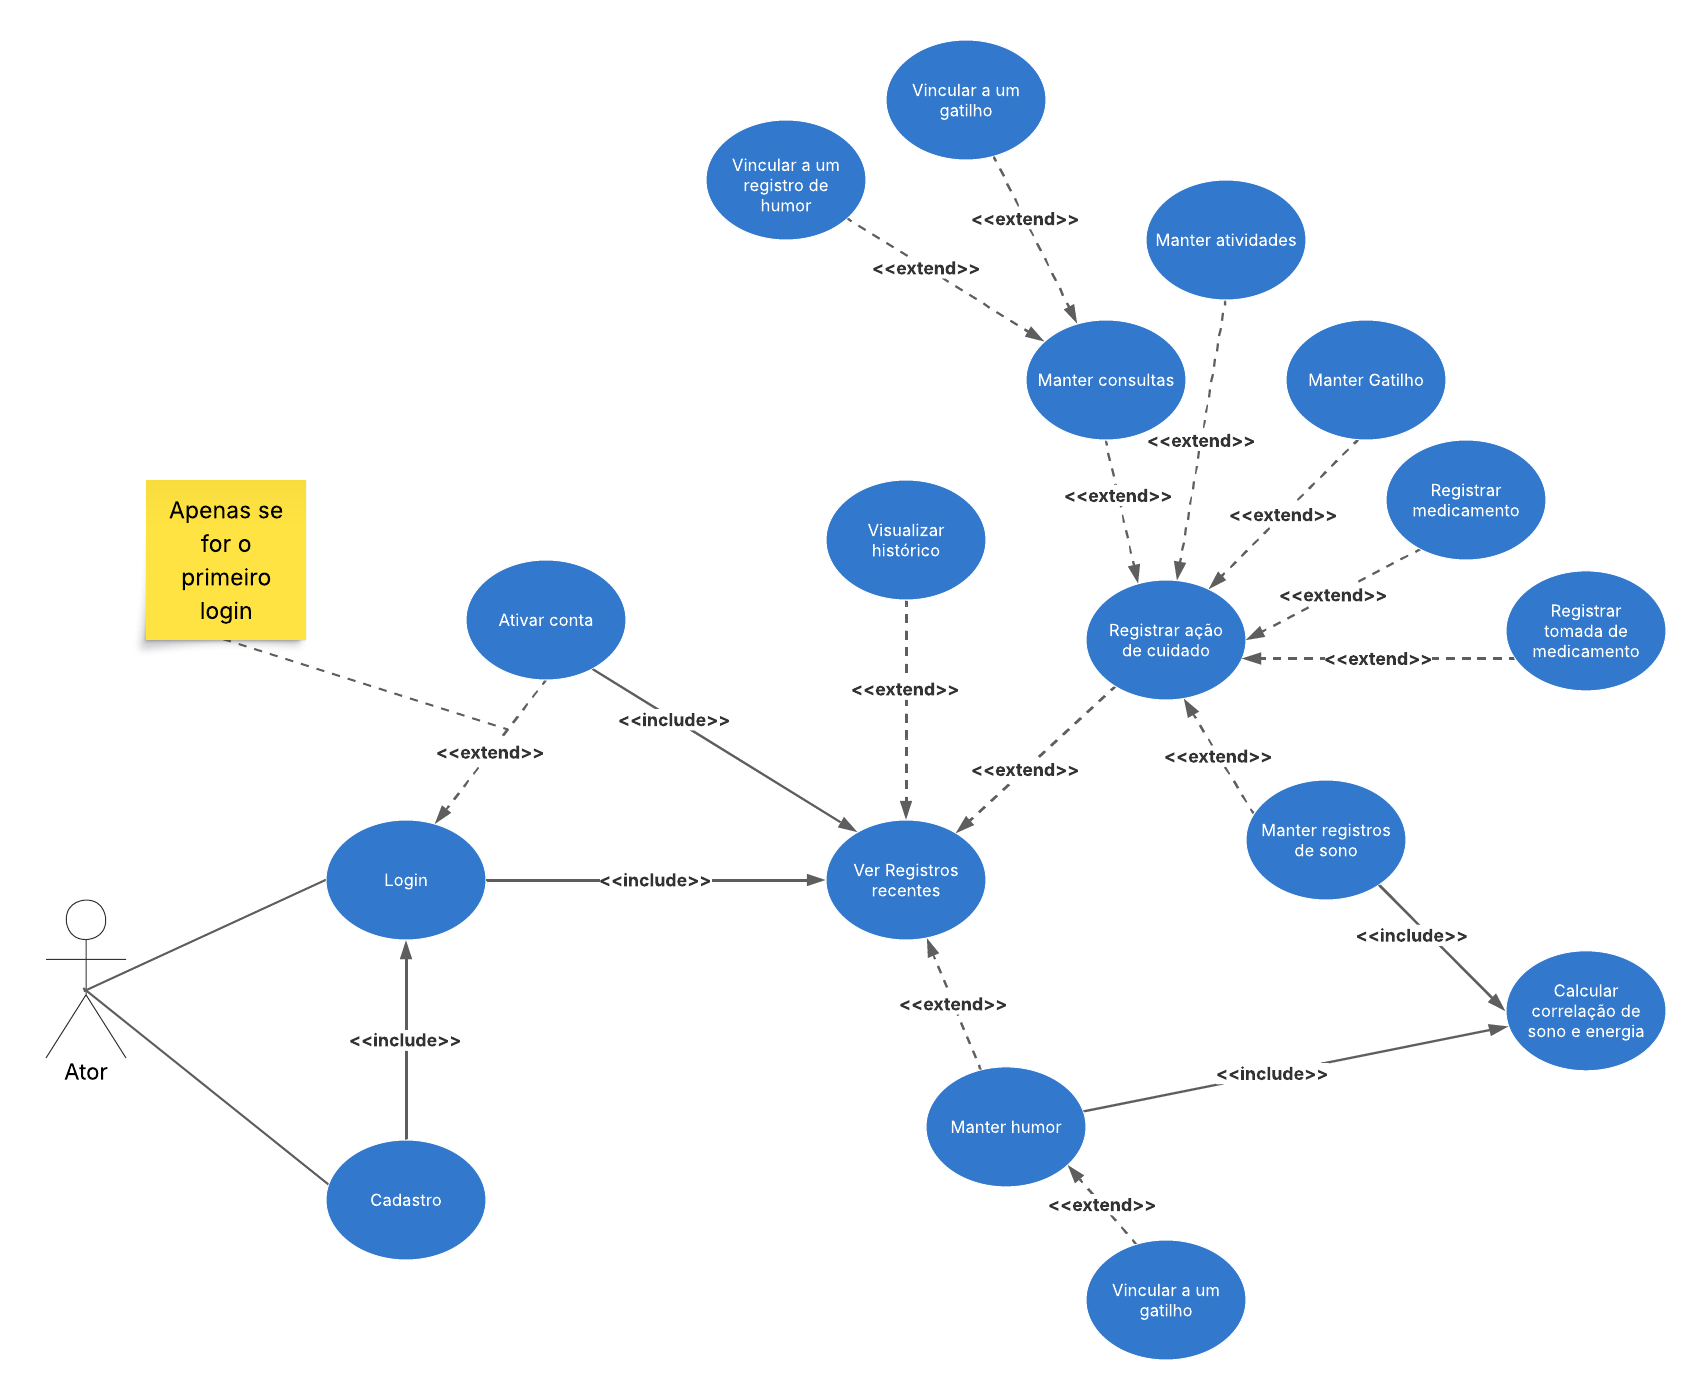
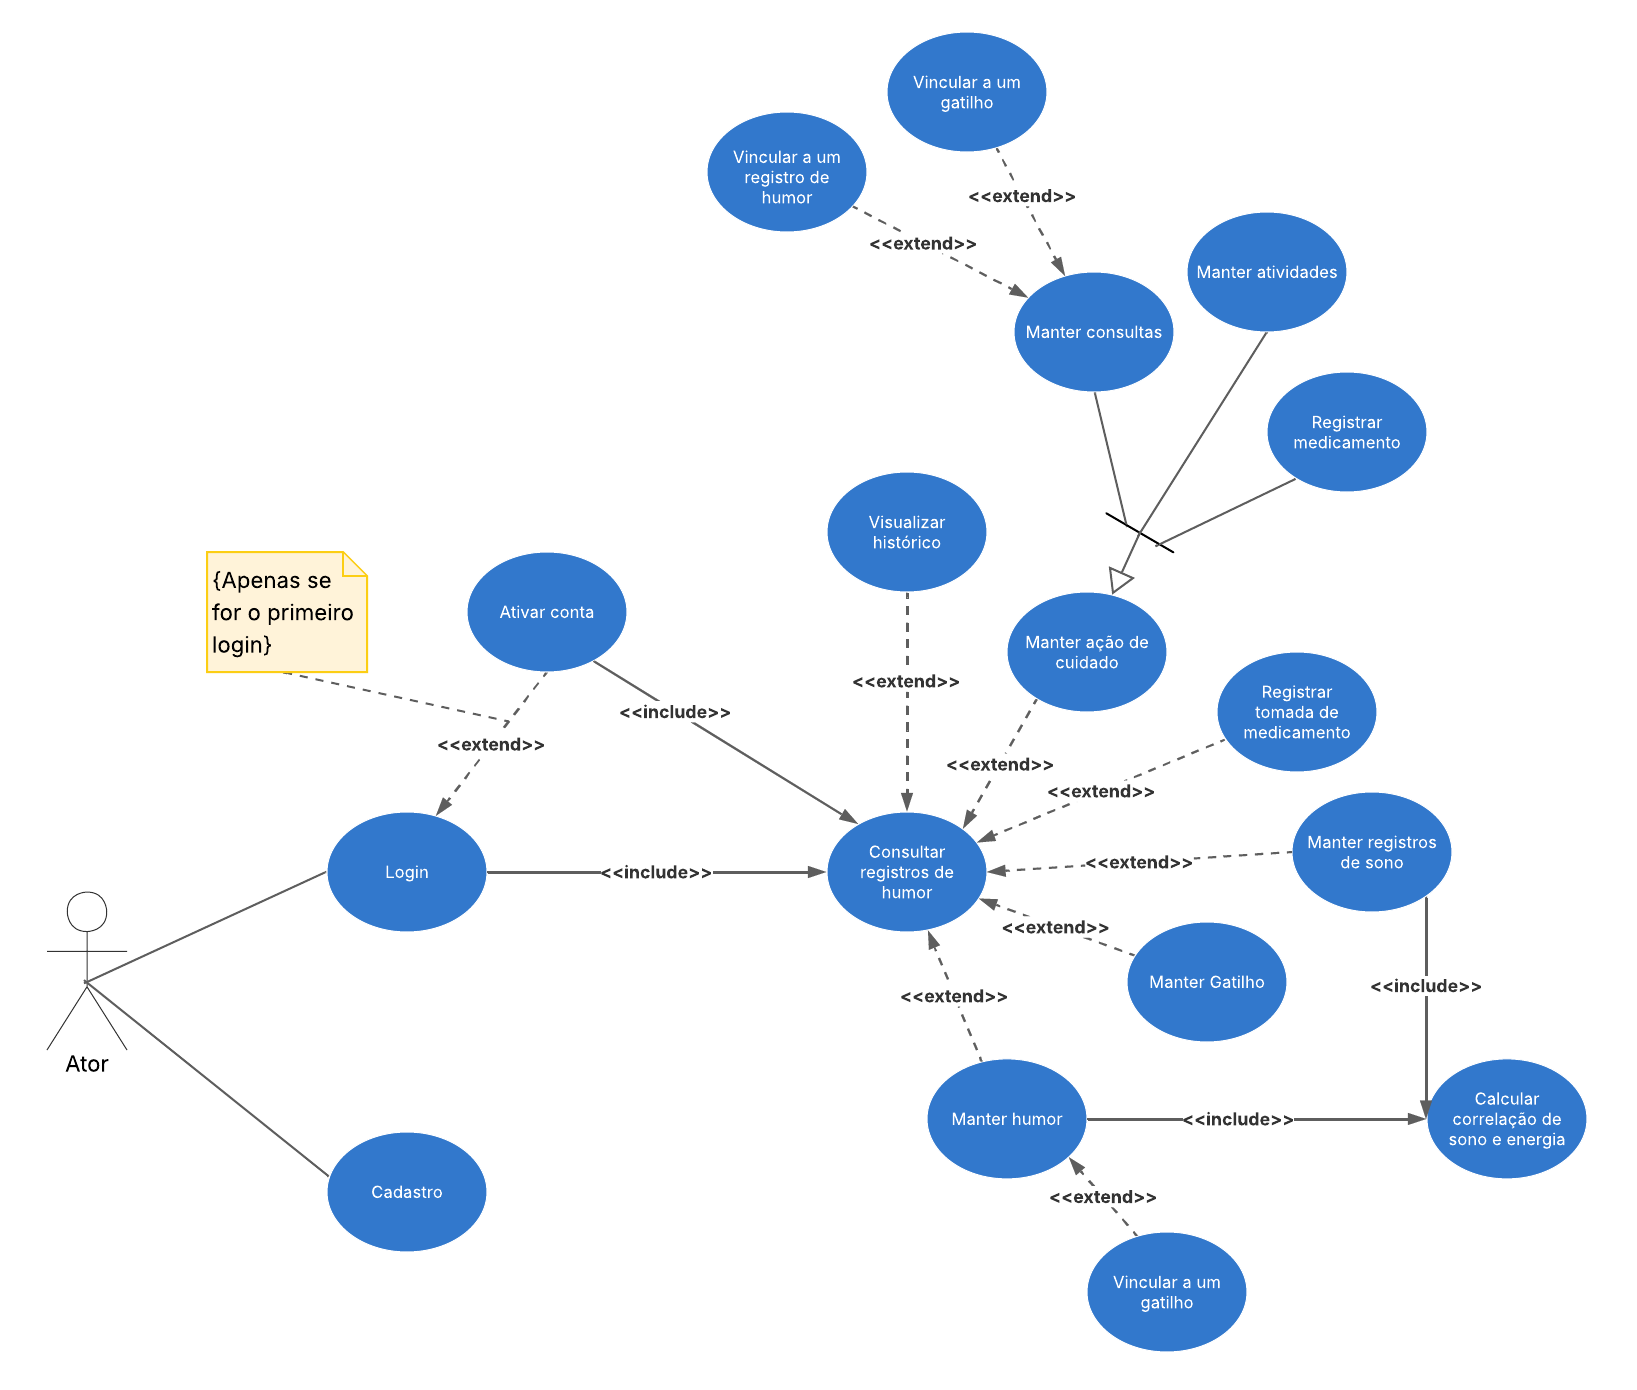
thesis: update methodologies to add screenshots and rework text

diff --git a/monografia/chapters/methodologies.tex b/monografia/chapters/methodologies.tex
@@ -220,6 +220,14 @@ emocional é realizado principalmente por meio de uma pontuação de humor, sem
 identificar ciclos emocionais ou relacionar registros a gatilhos e intervenções
 específicas.
 
+\begin{figure}[!htbp]
+\centering
+\caption{Aplicativo Baseline}
+\label{fig:screenshot-baseline}
+\includegraphics[width=0.40\textwidth,height=0.40\textheight,keepaspectratio]{screenshot-baseline.jpeg}
+\source{O autor}
+\end{figure}
+
 \subsubsection{DailyBeans}
 
 O DailyBeans é um dos aplicativos de monitoramento de humor mais populares
@@ -239,21 +247,37 @@ parte de suas funcionalidades mais avançadas à versão paga. Além disso, o fo
 em registros rápidos reduz a flexibilidade para inserção de reflexões textuais
 mais detalhadas.
 
-\subsubsection{Moodnotes}
 
-O Moodnotes é um diário emocional baseado em princípios da Terapia
-Cognitivo-Comportamental (TCC), buscando auxiliar usuários na identificação e
-reformulação de padrões de pensamento considerados disfuncionais.
+\begin{figure}[H]
+\centering
+\caption{Aplicativo DailyBeans}
+\label{fig:screenshot-dailybeans}
+\includegraphics[width=0.40\textwidth,height=0.40\textheight,keepaspectratio]{screenshot-dailybeans.jpeg}
+\source{O autor}
+\end{figure}
 
-O aplicativo oferece registros textuais reflexivos, sugestões de reestruturação
-cognitiva, gráficos históricos e geração automática de insights relacionados
-aos padrões emocionais identificados. Sua proposta diferencia-se por incorporar
-conceitos psicológicos de maneira mais explícita ao processo de registro.
+\subsubsection{DailyMood}
 
-Apesar dos recursos disponíveis, trata-se de uma solução proprietária e
-predominantemente paga. Adicionalmente, apresenta limitações relacionadas à
-exportação dos dados registrados e à personalização das informações
-armazenadas.
+DailyMood é um aplicativo voltado ao registro cotidiano do estado emocional,
+oferecendo uma solução enxuta para acompanhamento de humor. Sua
+proposta baseia-se em uma interação mínima, permitindo que o usuário
+selecione rapidamente o sentimento predominante do dia, sem a necessidade
+de descrições extensas. Os registros são organizados em um calendário
+visual, o que facilita a leitura histórica e a identificação de padrões
+emocionais ao longo do tempo.
+
+Apesar dos recursos disponíveis, trata-se de uma solução bastante
+simples, embora não necessite de contas. Adicionalmente, apresenta
+limitações relacionadas à exportação dos dados registrados e à
+personalização das informações armazenadas.
+
+\begin{figure}[H]
+\centering
+\caption{Aplicativo DailyMood}
+\label{fig:screenshot-dailymood}
+\includegraphics[width=0.40\textwidth,height=0.55\textheight,keepaspectratio]{screenshot-dailymood.jpeg}
+\source{O autor}
+\end{figure}
 
 \subsubsection{Reflectly}
 
@@ -266,33 +290,57 @@ Entre suas funcionalidades estão entradas textuais livres, perguntas guiadas
 diárias, análises emocionais automatizadas e personalização visual da
 interface. O sistema apresenta uma experiência moderna e intuitiva,
 incentivando o uso contínuo por meio de elementos de engajamento.
+Um ponto interessante é o fato do aplicativo separar o ``humor'' dos
+``sentimentos'', permitindo que os usuários avaliem ambos de forma
+independente.
 
 Como pontos observados, destaca-se o fato de ser uma solução proprietária e
 dependente de coleta significativa de dados para alimentar seus mecanismos de
-análise. Além disso, sua abordagem está mais voltada ao diário pessoal do que
+análise. Outro ponto negativo é o fato de que o aplicativo apresenta
+elementos como estatísticas e histórico, porém necessita de uma conta
+paga para acessar esses recursos.
+
+Além disso, sua abordagem está mais voltada ao diário pessoal do que
 ao acompanhamento sistemático de indicadores de saúde mental.
 
-\subsubsection{T2 Mood Tracker}
+\begin{figure}[H]
+\centering
+\caption{Aplicativo Reflectly}
+\label{fig:screenshot-reflectly}
+\includegraphics[width=0.40\textwidth,height=0.55\textheight,keepaspectratio]{screenshot-reflectly.jpeg}
+\source{O autor}
+\end{figure}
 
-O T2 Mood Tracker foi desenvolvido com foco em contextos clínicos e
-acompanhamento estruturado do humor. A ferramenta permite que usuários
-monitorem diferentes aspectos emocionais por meio de escalas configuráveis.
+\subsubsection{eMoods}
 
-Entre os recursos oferecidos estão escalas deslizantes de avaliação, criação de
-categorias personalizadas e geração de gráficos históricos para análise
-temporal dos registros. Sua proposta é particularmente útil para profissionais
-e pacientes que necessitam acompanhar indicadores específicos ao longo do
-tempo.
+O \textit{eMoods} é um aplicativo de registro de humor especificamente para
+pessoas com TAB. O aplicativo tem uma interface bem compacta, bastante
+poluída visualmente, em estilo formulário de entrada de dados.
+
+O aplicativo consegue registrar dados de sono, além de perguntas como
+ansiedade, estado depressivo, e outras coisas como ``você praticou higiene
+pessoal?'', ``você tomou medicamentos?'', ``você se alimentou bem?'' e afins.
+Um ponto positivo é que o aplicativo também permite exportar os dados em
+formato CSV e gerar relatórios em formato PDF.
 
 Entretanto, a aplicação apresenta limitações relacionadas à experiência do
 usuário, possuindo interface considerada desatualizada quando comparada a
 soluções contemporâneas. Também não oferece suporte para registros textuais
-extensos ou entradas por voz, reduzindo a riqueza contextual das informações
-coletadas.
+extensos ou entradas por voz, além de ser muito confuso de usar.
+
+\begin{figure}[H]
+\centering
+\caption{Aplicativo eMoods}
+\label{fig:screenshot-emoods}
+\includegraphics[width=0.40\textwidth,height=0.55\textheight,keepaspectratio]{screenshot-emoods.jpeg}
+\source{O autor}
+\end{figure}
+
+\FloatBarrier
 
 \subsection{Análise comparativa}
 
-\begin{table}[h]
+\begin{table}[H]
     \centering
     \caption{Comparativo de funcionalidades entre aplicativos analisados}
     \label{tab:comparativo_apps}
@@ -300,15 +348,15 @@ coletadas.
         \hline
         Funcionalidade &
         Baseline &
-        Daylio &
-        Moodnotes &
+        DailyBeans &
+        DailyMood &
         Reflectly &
-        T2 \\
+        eMoods \\
 
         \hline
         Registro de humor & Sim & Sim & Sim & Sim & Sim \\
-        Registro de sono & Não & Não & Não & Não & Não \\
-        Texto livre & Sim & Parcial & Sim & Sim & Não \\
+        Registro de sono & Não & Não & Não & Não & Sim \\
+        Texto livre & Sim & Parcial & Sim & Sim & Sim \\
         Gráficos & Não & Sim & Sim & Sim & Sim \\
         Gatilhos/intervenções & Não & Parcial & Não & Não & Parcial \\
         Exportação de dados & Sim & Parcial & Parcial & Parcial & Sim \\

diff --git a/monografia/monografia.tex b/monografia/monografia.tex
@@ -16,6 +16,7 @@
 \usepackage{lipsum}
 \usepackage{longtable}
 \usepackage{placeins}
+\usepackage{float}
 \graphicspath{{images/}}
 
 % Título do trabalho